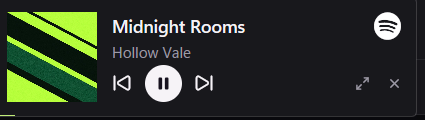
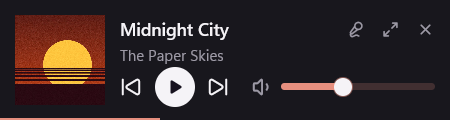
docs: describe the new mini player in the README and on the site

diff --git a/site/src/i18n/es.ts b/site/src/i18n/es.ts
@@ -59,7 +59,7 @@ export const es: Dict = {
 		},
 		mini: {
 			title: "Un reproductor que cabe en una esquina",
-			body: "Achica Sonear a una ventana pequeña que se queda encima de todo y llévala a donde menos te estorbe.",
+			body: "Achica Sonear a una ventana pequeña que se queda encima de todo. Muévela, cambia su tamaño, hazla transparente o ponle la letra.",
 			hint: "Prueba los botones o muévelo por ahí.",
 		},
 		palette: {

diff --git a/site/src/i18n/en.ts b/site/src/i18n/en.ts
@@ -59,7 +59,7 @@ export const en = {
 		},
 		mini: {
 			title: "A player that fits in a corner",
-			body: "Shrink Sonear down to a small window that stays on top of everything, then drag it wherever it gets in your way the least.",
+			body: "Shrink Sonear down to a small window that stays on top of everything. Drag it, resize it, fade it, or switch it to the lyrics.",
 			hint: "Try the buttons, or drag it around.",
 		},
 		palette: {

diff --git a/README.md b/README.md
@@ -35,7 +35,7 @@
 <tr><td><strong>Ctrl+K</strong></td><td>Search, playback, navigation and Spotify links, all from one box. Every shortcut can be rebound.</td></tr>
 <tr><td><strong>Synced lyrics</strong></td><td>Line by line, from <a href="https://lrclib.net">LRCLIB</a>. Click a line to jump to it.</td></tr>
 <tr><td><strong>Color from the cover</strong></td><td>The whole app takes its accent from what's playing.</td></tr>
-<tr><td><strong>Mini player</strong></td><td>Small, draggable and always on top.</td></tr>
+<tr><td><strong>Mini player</strong></td><td>Always on top. Resize it, fade it, or switch it to the lyrics. It never steals focus from a game.</td></tr>
 <tr><td><strong>Tray and media keys</strong></td><td>Close the window and the music keeps going. Your keyboard and the Windows overlay still work.</td></tr>
 <tr><td><strong>History</strong></td><td>A list of what you played.</td></tr>
 </table>
@@ -90,7 +90,7 @@ Spotify only gives wide API access to large companies, so you create your own ap
 <details>
 <summary><strong>What does it send, and where?</strong></summary>
 
-Nothing goes to us. Sonear talks to Spotify, to LRCLIB while the lyrics panel is open, and to GitHub to check for updates, which you can turn off. **Settings → Delete all Sonear data** wipes everything. More in the [privacy policy](docs/legal/privacy.md).
+Nothing goes to us. Sonear talks to Spotify, to LRCLIB while lyrics are showing, and to GitHub to check for updates, which you can turn off. **Settings → Delete all Sonear data** wipes everything. More in the [privacy policy](docs/legal/privacy.md).
 
 </details>
 
